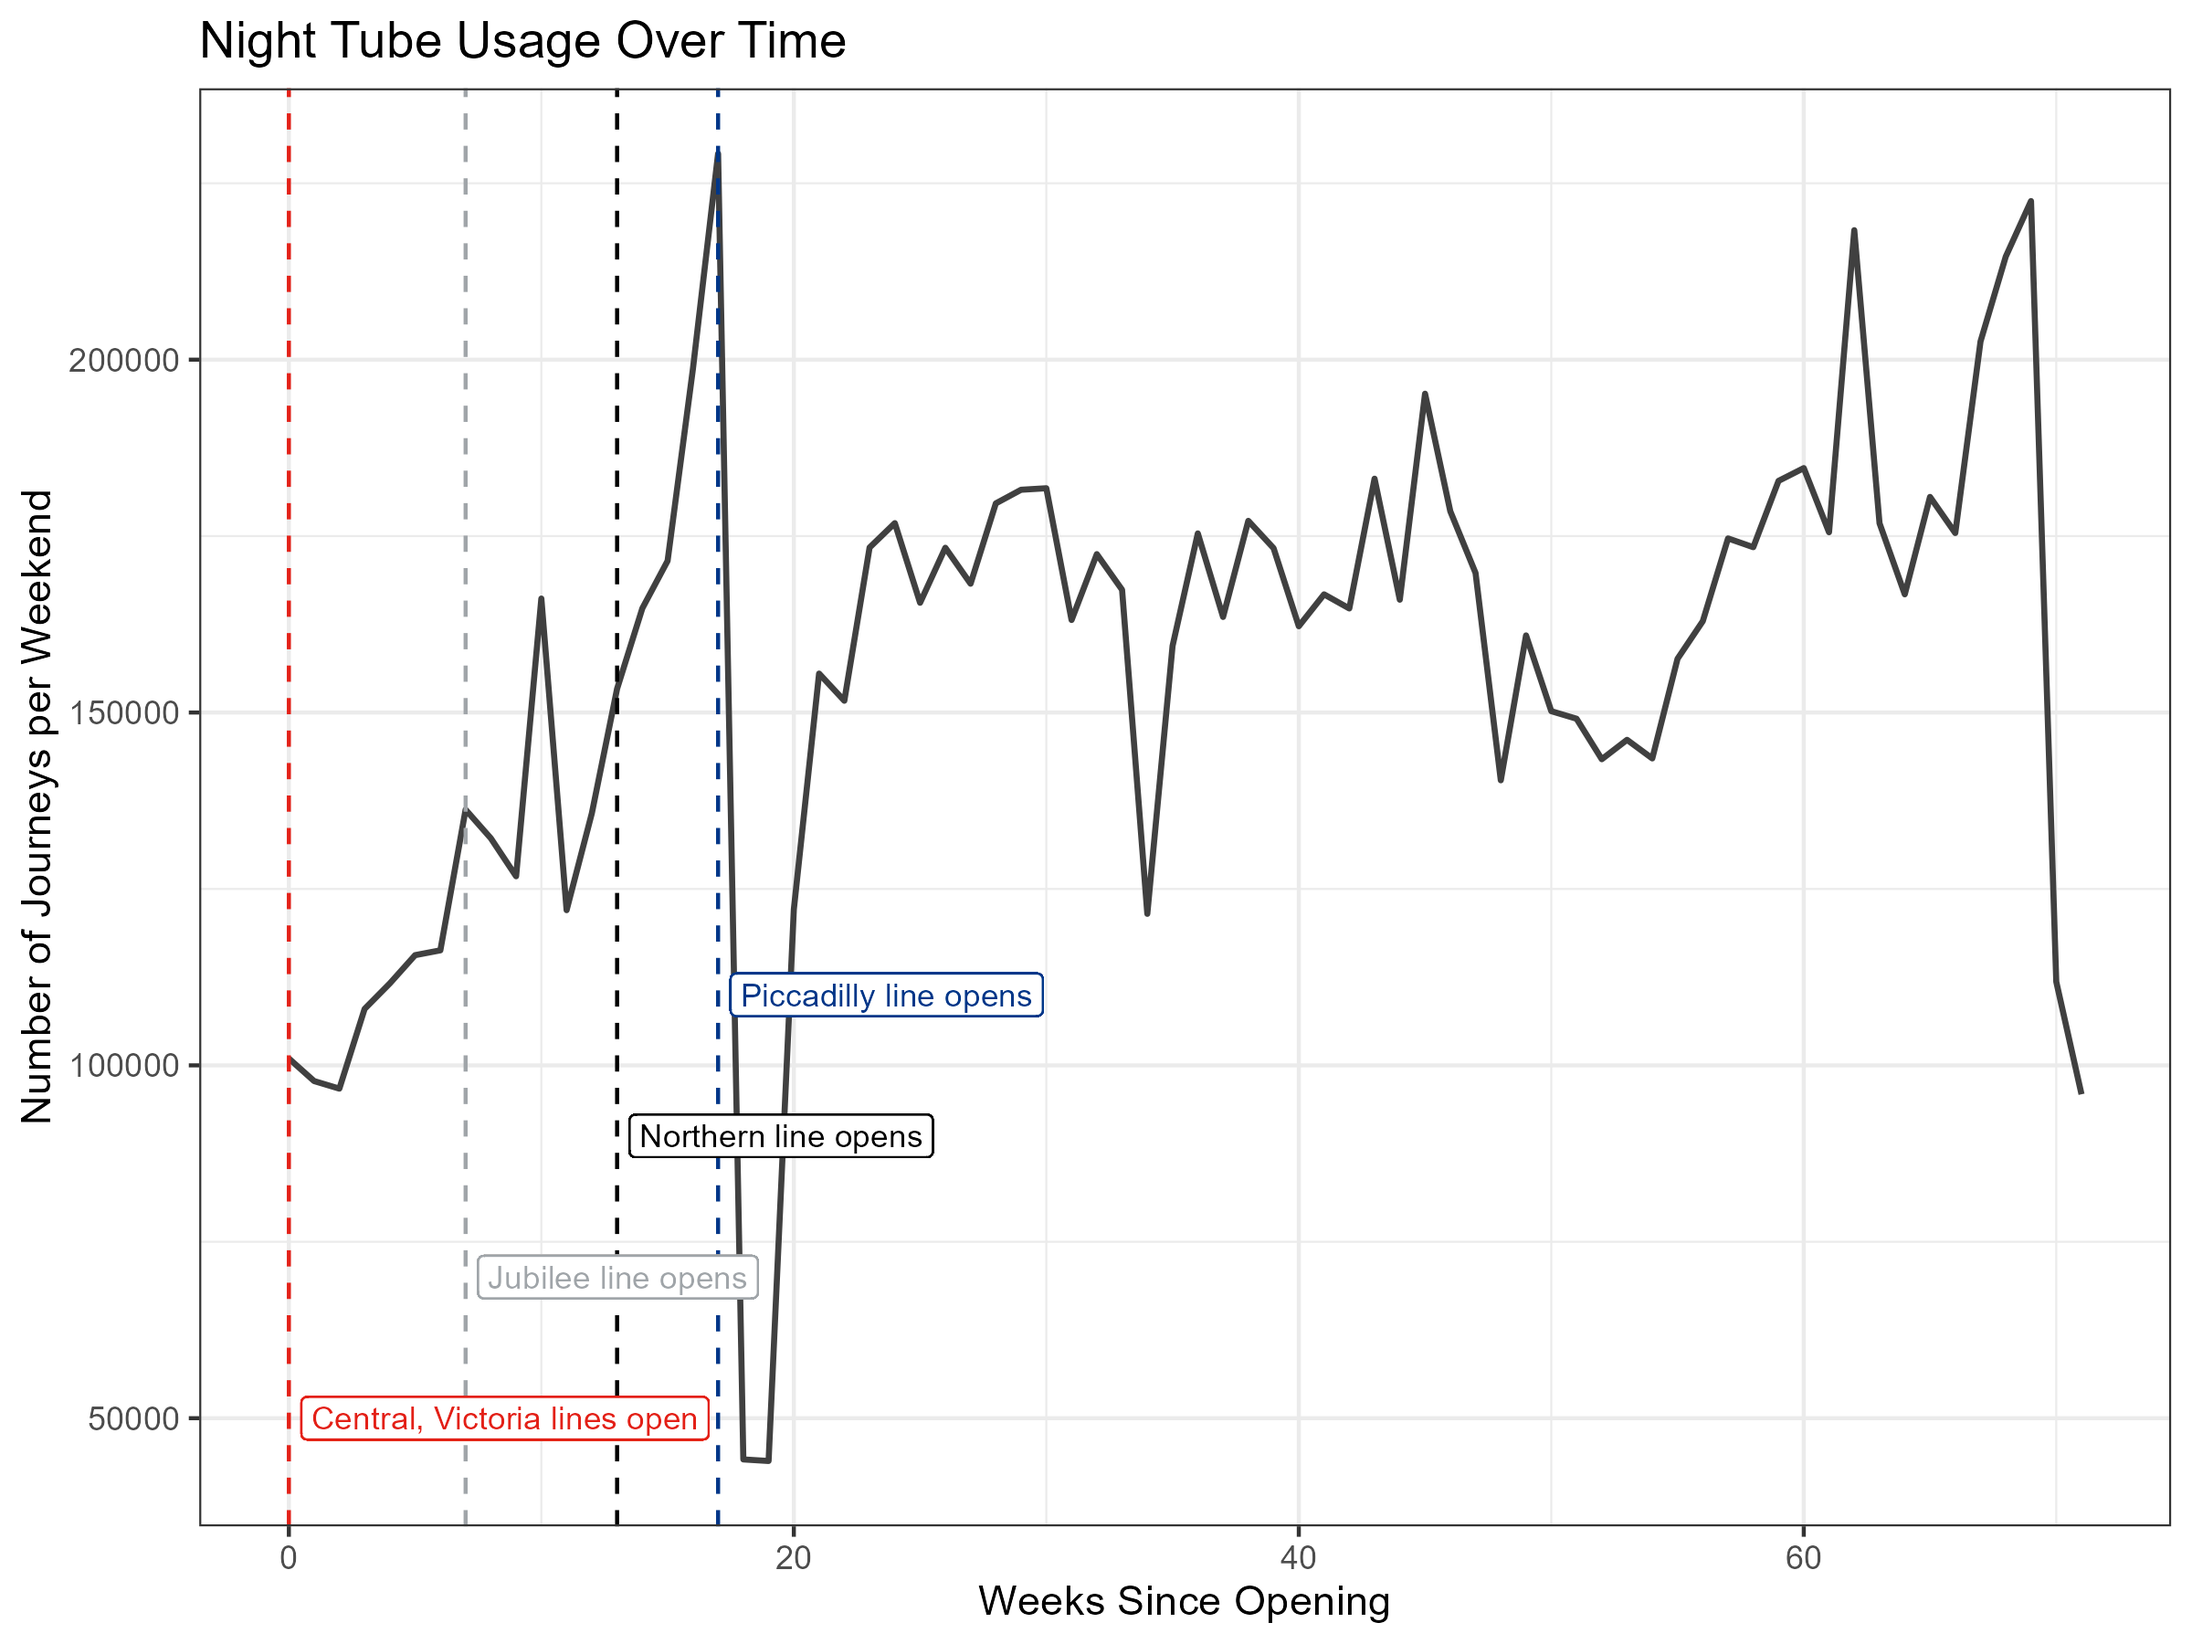
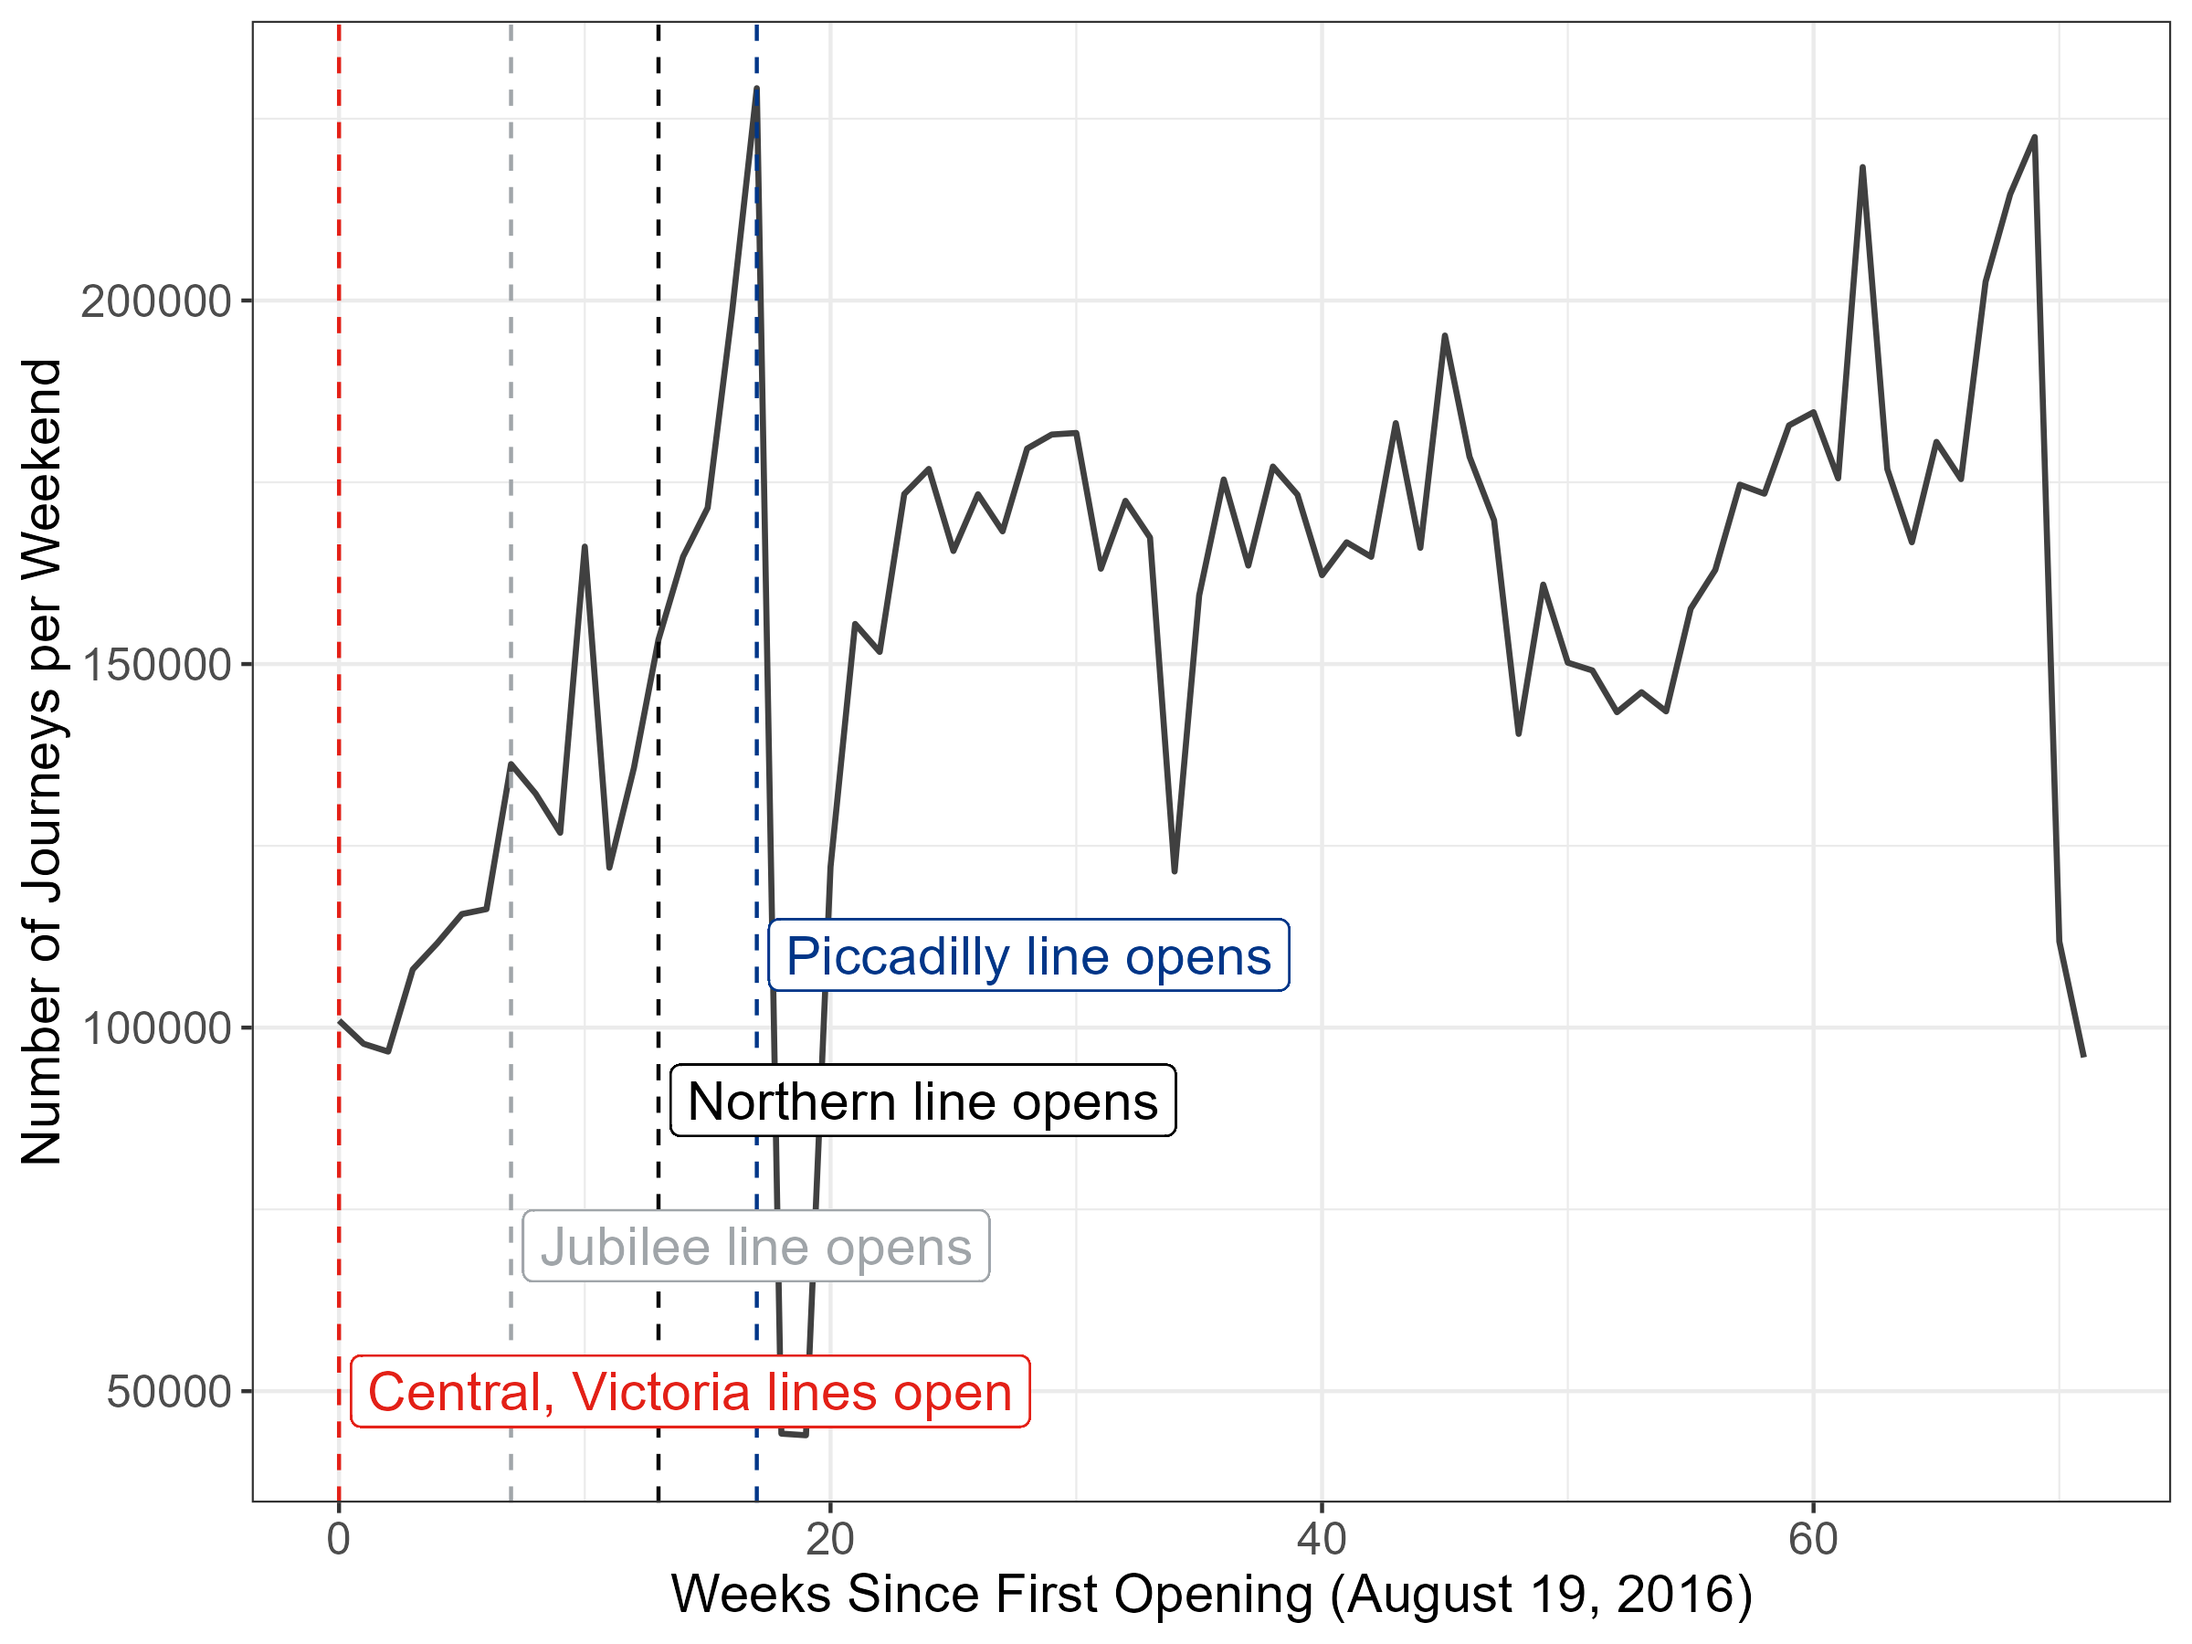
tidied up plotting (and changed the plot fn - need to ccorrect the rest!)

diff --git a/to_do.md b/to_do.md
@@ -5,6 +5,8 @@ next things to do:
  - final bits for submission
     - get the number of pre-treatment coeffs right for BJS! Rerun with the right k (1)
     - redo controls estimation with BJS/A+S (2)
+    - run BJS results again - 10a, ...
+    - correct violations of the new plot function in the code
     - make graphs and tables nicer - formatting, titles, captions, descriptions (3)
     - check we have fit with marking criteria
     - cut words
